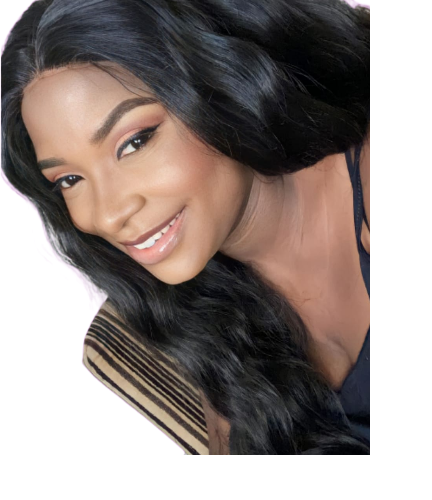
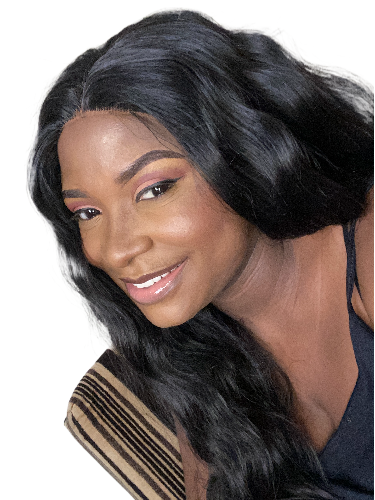
add nav section

diff --git a/rportfolio/src/components/nav/Nav.jsx b/rportfolio/src/components/nav/Nav.jsx
@@ -1,0 +1,77 @@
+import "./nav.css"
+
+import React from 'react'
+
+function Nav() {
+  return (
+    <div className="navSection">
+        <div className="NavLeft">left</div>
+        <div className="navRight">
+            <div className="home">Home</div>
+            <div className="about">About</div>
+            <div className="skills">Skills</div>
+            <div className="contact">Contact</div>
+            <div className="themeSvg">
+            <svg
+                      width="30"
+                      height="30"
+                      viewBox="0 0 75 75"
+                      fill="none"
+                      stroke="black"
+                      className="introScroll"
+                      xmlns="http://www.w3.org/2000/svg"
+                      >
+                      <g id="scroll">
+                        <path
+                          id="Vector"
+                          d="M40.5 15L34.5 9L28.5 15"
+                          stroke-width="3"
+                          stroke-miterlimit="10"
+                          stroke-linecap="round"
+                          stroke-linejoin="round"
+                        />
+                        <path
+                          id="Vector_2"
+                          d="M28.5 24L34.5 30L40.5 24"
+                          stroke-width="3"
+                          stroke-miterlimit="10"
+                          stroke-linecap="round"
+                          stroke-linejoin="round"
+                        />
+                        <g id="Group">
+                          <path
+                            id="Vector_3"
+                            d="M9 37.5H60"
+                            stroke-width="3"
+                            stroke-miterlimit="10"
+                            stroke-linecap="round"
+                            stroke-linejoin="round"
+                          />
+                        </g>
+                        <path
+                          id="Vector_4"
+                          d="M34.5 27V9"
+                          stroke-width="2.9895"
+                          stroke-miterlimit="10"
+                          stroke-linecap="round"
+                          stroke-linejoin="round"
+                        />
+                        <g id="Group_2">
+                          <path
+                            id="Vector_5"
+                            d="M9 27C9 12.918 20.418 1.5 34.5 1.5C48.5859 1.5 60 12.918 60 27C60 29.8906 60 45.1094 60 48C60 62.082 48.5859 73.5 34.5 73.5C20.418 73.5 9 62.082 9 48C9 45.1094 9 29.8906 9 27Z"
+                            stroke-width="3"
+                            stroke-miterlimit="10"
+                            stroke-linecap="round"
+                            stroke-linejoin="round"
+                          />
+                        </g>
+                      </g>
+                    </svg> 
+            </div>
+        </div>
+    </div>
+  )
+}
+
+export default Nav

diff --git a/rportfolio/src/components/intro/intro.css b/rportfolio/src/components/intro/intro.css
@@ -4,22 +4,20 @@
 }
 
 .introLeft{
-    flex: 2;
+    flex: 1;
     display: flex;
     align-items: center;
+    justify-content: space-around;
 }
 
 .introRight{
     flex:1;
-}
-
-.introLeft{
-    padding: 50px;
+    position: relative;
 }
 
 .name-container{
     padding: 50px;
-    height: 75%;
+    height: 60%;
     display: flex;
     flex-direction: column;
     justify-content: space-between;
@@ -27,9 +25,8 @@
 
 .name{
     font-size: 60px;
-    font-weight: bolder;
+    font-weight: 900;
     font-family:'Montserrat', sans-serif;
-
 }
 
 
@@ -48,13 +45,14 @@
     height: 100%;
     animation: move 10s ease-in-out infinite alternate;
     font-family:'Montserrat', sans-serif;
+    font-weight: 600;
+    color: rgb(143, 54, 143);
 }
 
 @keyframes move {
     35% {
         transform: translateY(-50px);
     }
-
     70% {
         transform: translateY(-100px);
     }
@@ -62,11 +60,29 @@
     100% {
         transform: translateY(-150px);
     }
-    
-}
 
-.introImage{
+}
+ .introImage{
     height: 100%;
     object-fit: cover;
+    position: absolute;
+ }
+
+.introScroll{
+    width: 30px;
+    height: 30px;
+    position: absolute;
+    bottom: 20px;
 }
 
+.introBg{
+    -webkit-clip-path: polygon(100% 0%, 100% 68%, 100% 100%, 25% 100%, 0 75%, 25% 0%);
+    clip-path: polygon(100% 0%, 100% 68%, 100% 100%, 25% 100%, 0 75%, 25% 0%);
+     background-color: rgb(143, 54, 143);
+     width: 100%;
+     height: 100%;
+     position: absolute;
+     top: 0;
+     right:0 ;
+
+} 

diff --git a/rportfolio/src/components/intro/Intro.jsx b/rportfolio/src/components/intro/Intro.jsx
@@ -1,6 +1,6 @@
 import React from 'react'
 import './intro.css'
-import Winnie from '../../img/winnie.png'
+import Winnie from '../../img/me.png'
 
 function Intro() {
   return (
@@ -18,12 +18,13 @@ function Intro() {
                     </div>
                 </div>
                 <div className="introDescription">
-                   <p> I am a frontEnd developer, i design stylish, modern responsive  <br />  websites for all types of customers, be it online store or any type of  <br /> web services
+                   <p> I am a frontEnd developer, i design stylish, modern responsive  <br />  websites for all types of customers, be it online store or any type of web services
                    </p>
-                </div>
+                </div>   
             </div>
-        </div>
+          </div>
         <div className="introRight">
+            <div className="introBg"></div>
             <img src={Winnie} alt="" className='introImage' />
         </div>
     </div>

diff --git a/rportfolio/public/index.html b/rportfolio/public/index.html
@@ -16,7 +16,7 @@
     -->
     <link rel="preconnect" href="https://fonts.googleapis.com">
     <link rel="preconnect" href="https://fonts.gstatic.com" crossorigin>
-    <link href="https://fonts.googleapis.com/css2?family=Dancing+Script&family=Foldit:wght@100&family=Lato:ital,wght@1,300&family=Lobster&family=Montserrat:wght@400;600&family=Poppins:wght@100;900&family=Source+Code+Pro:ital,wght@0,200;0,300;0,400;0,700;1,700&family=Tilt+Prism&family=Tulpen+One&display=swap" rel="stylesheet">
+    <link href="https://fonts.googleapis.com/css2?family=Dancing+Script&family=Foldit:wght@100&family=Lato:ital,wght@1,300&family=Lobster&family=Montserrat:wght@400;800&family=Poppins:wght@100;900&family=Source+Code+Pro:ital,wght@0,200;0,300;0,400;0,700;1,700&family=Tilt+Prism&family=Tulpen+One&display=swap" rel="stylesheet">
     <link rel="manifest" href="%PUBLIC_URL%/manifest.json" />
     <!--
       Notice the use of %PUBLIC_URL% in the tags above.

diff --git a/rportfolio/src/App.js b/rportfolio/src/App.js
@@ -1,9 +1,11 @@
 import './App.css';
-import Intro from './components/intro/Intro'
+import Nav from "./components/nav/Nav"
+// import Intro from './components/intro/Intro'
 function App() {
   return (
     <div className="App">
-      <Intro />
+      <Nav />
+      {/* <Intro /> */}
     </div>
   );
 }

diff --git a/rportfolio/src/components/nav/nav.css b/rportfolio/src/components/nav/nav.css
@@ -1,0 +1,18 @@
+.navSection{
+    display: flex;
+    flex-direction: row;
+    height: 70px;
+}
+
+.NavLeft{
+    flex:1;
+}
+
+.navRight{
+    flex: 1;
+    display: flex;
+    flex-direction: row;
+    justify-content: space-between;
+    font-family:'Montserrat', sans-serif;
+    font-weight: 600;
+}
